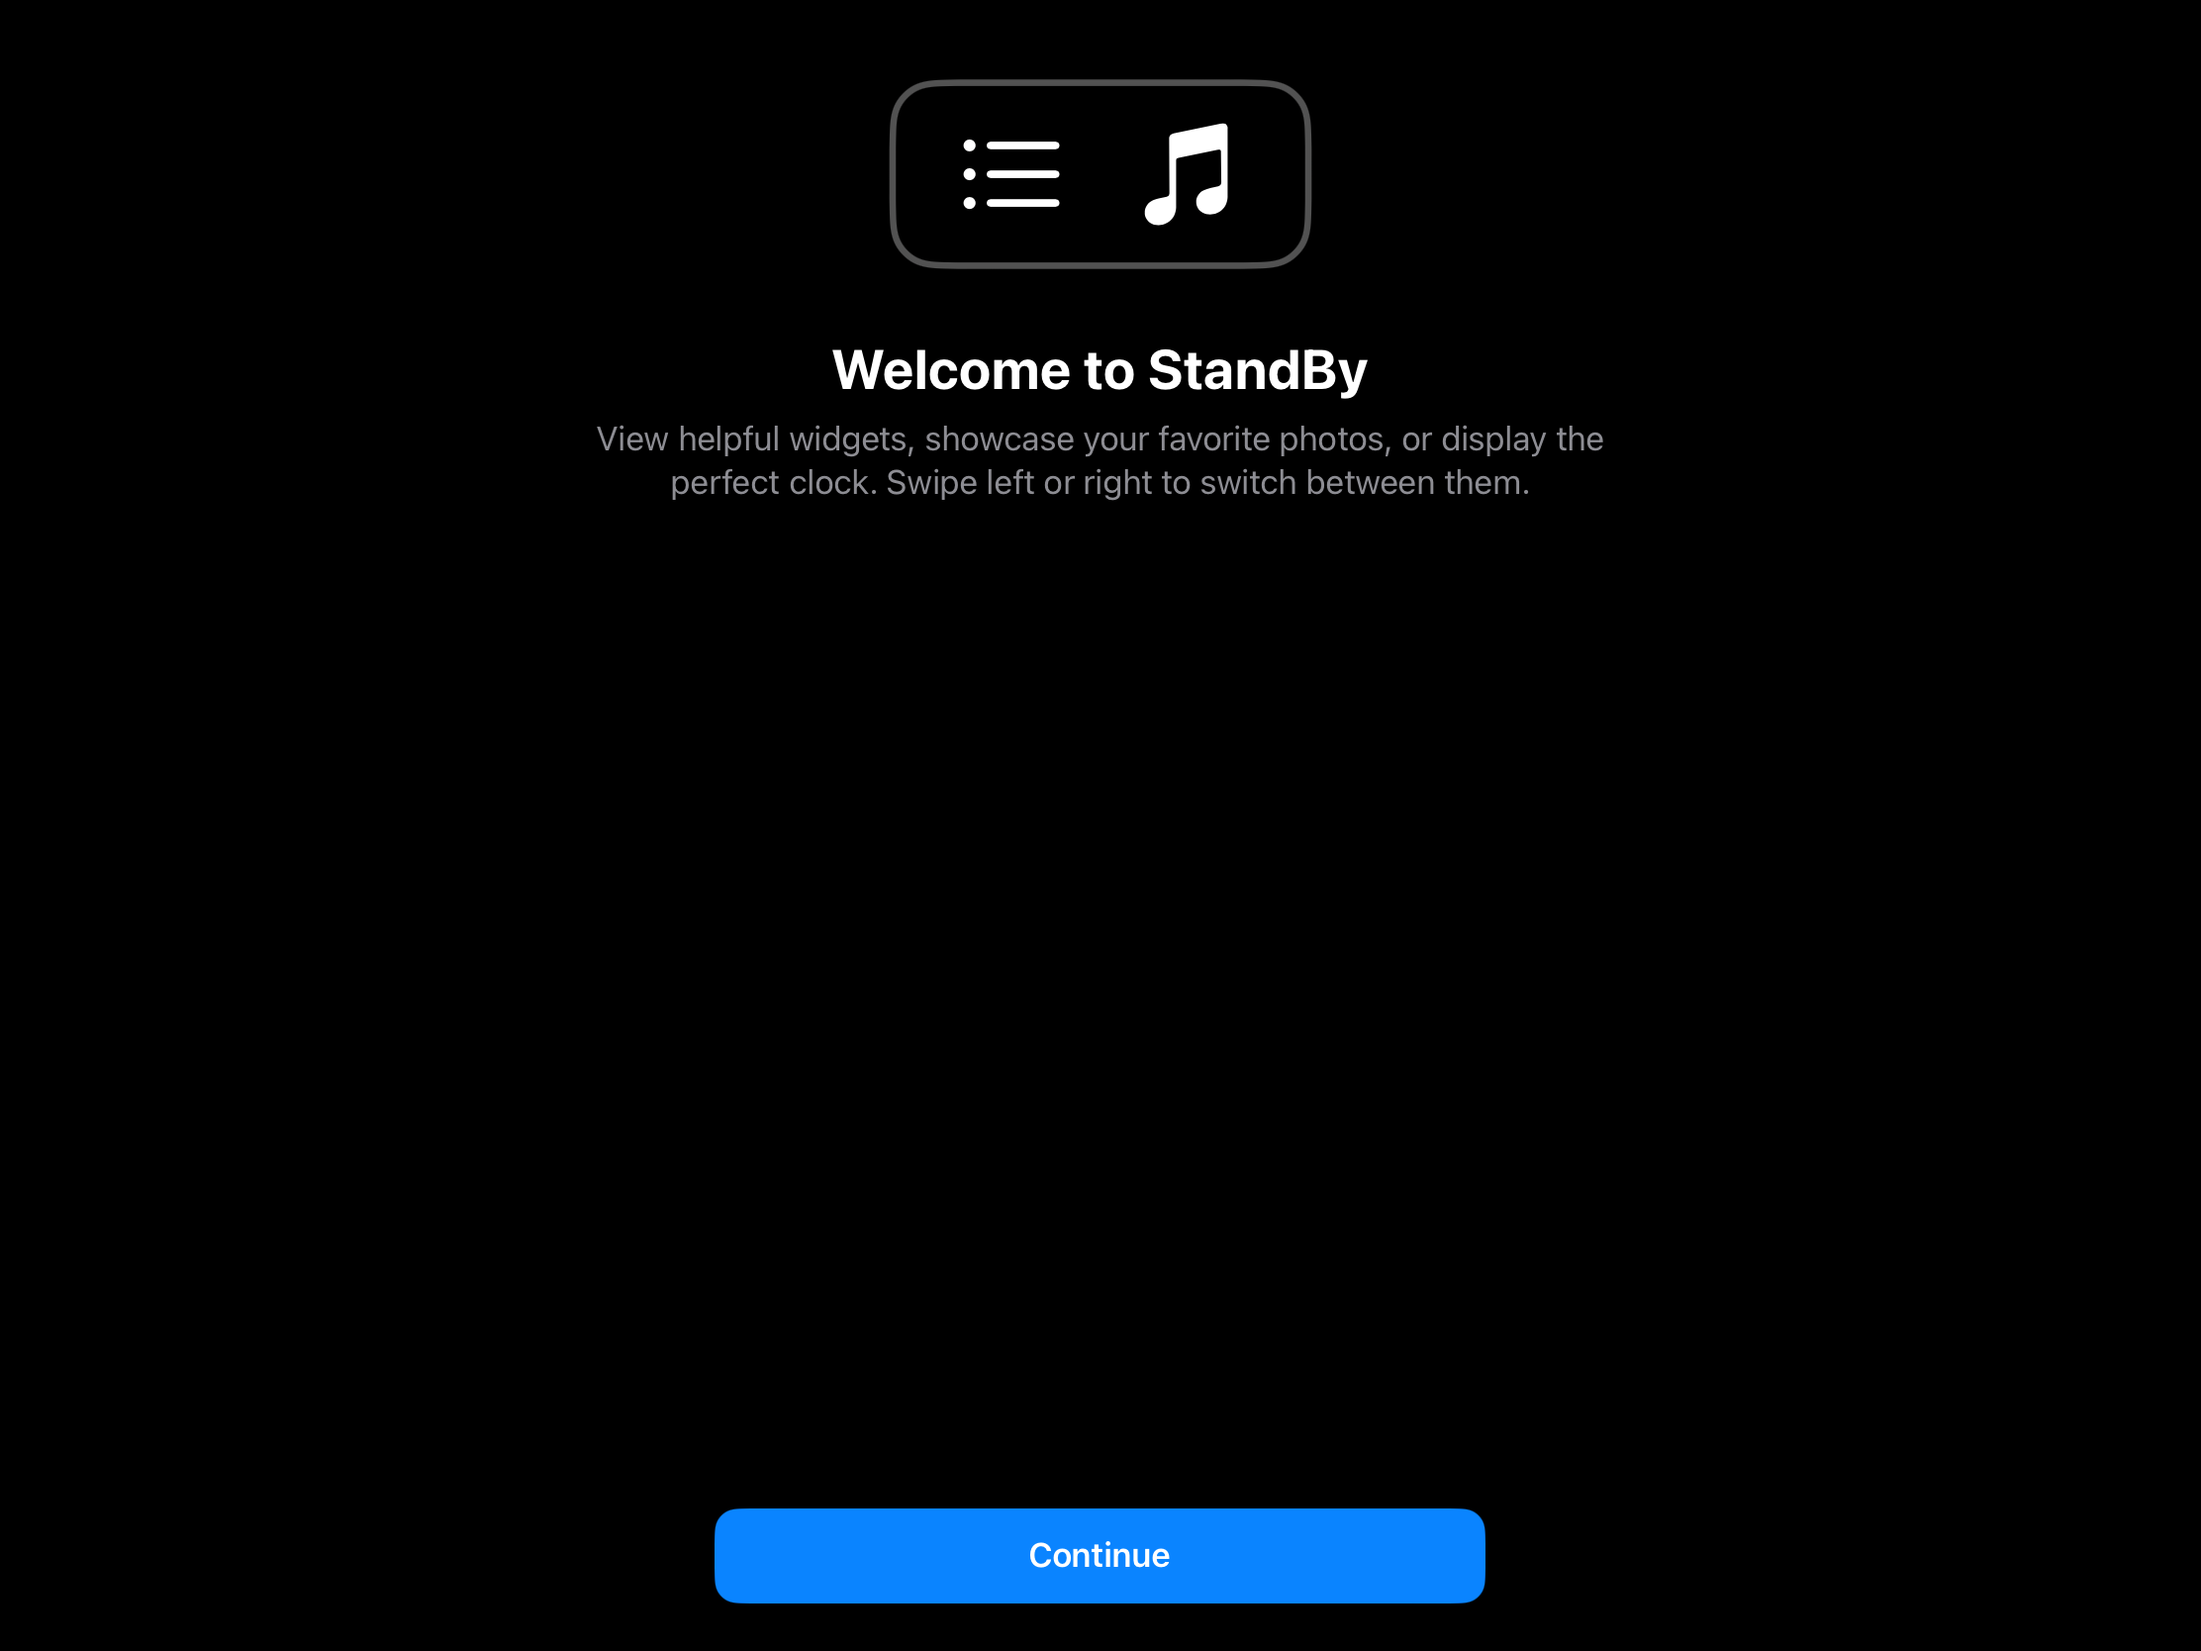
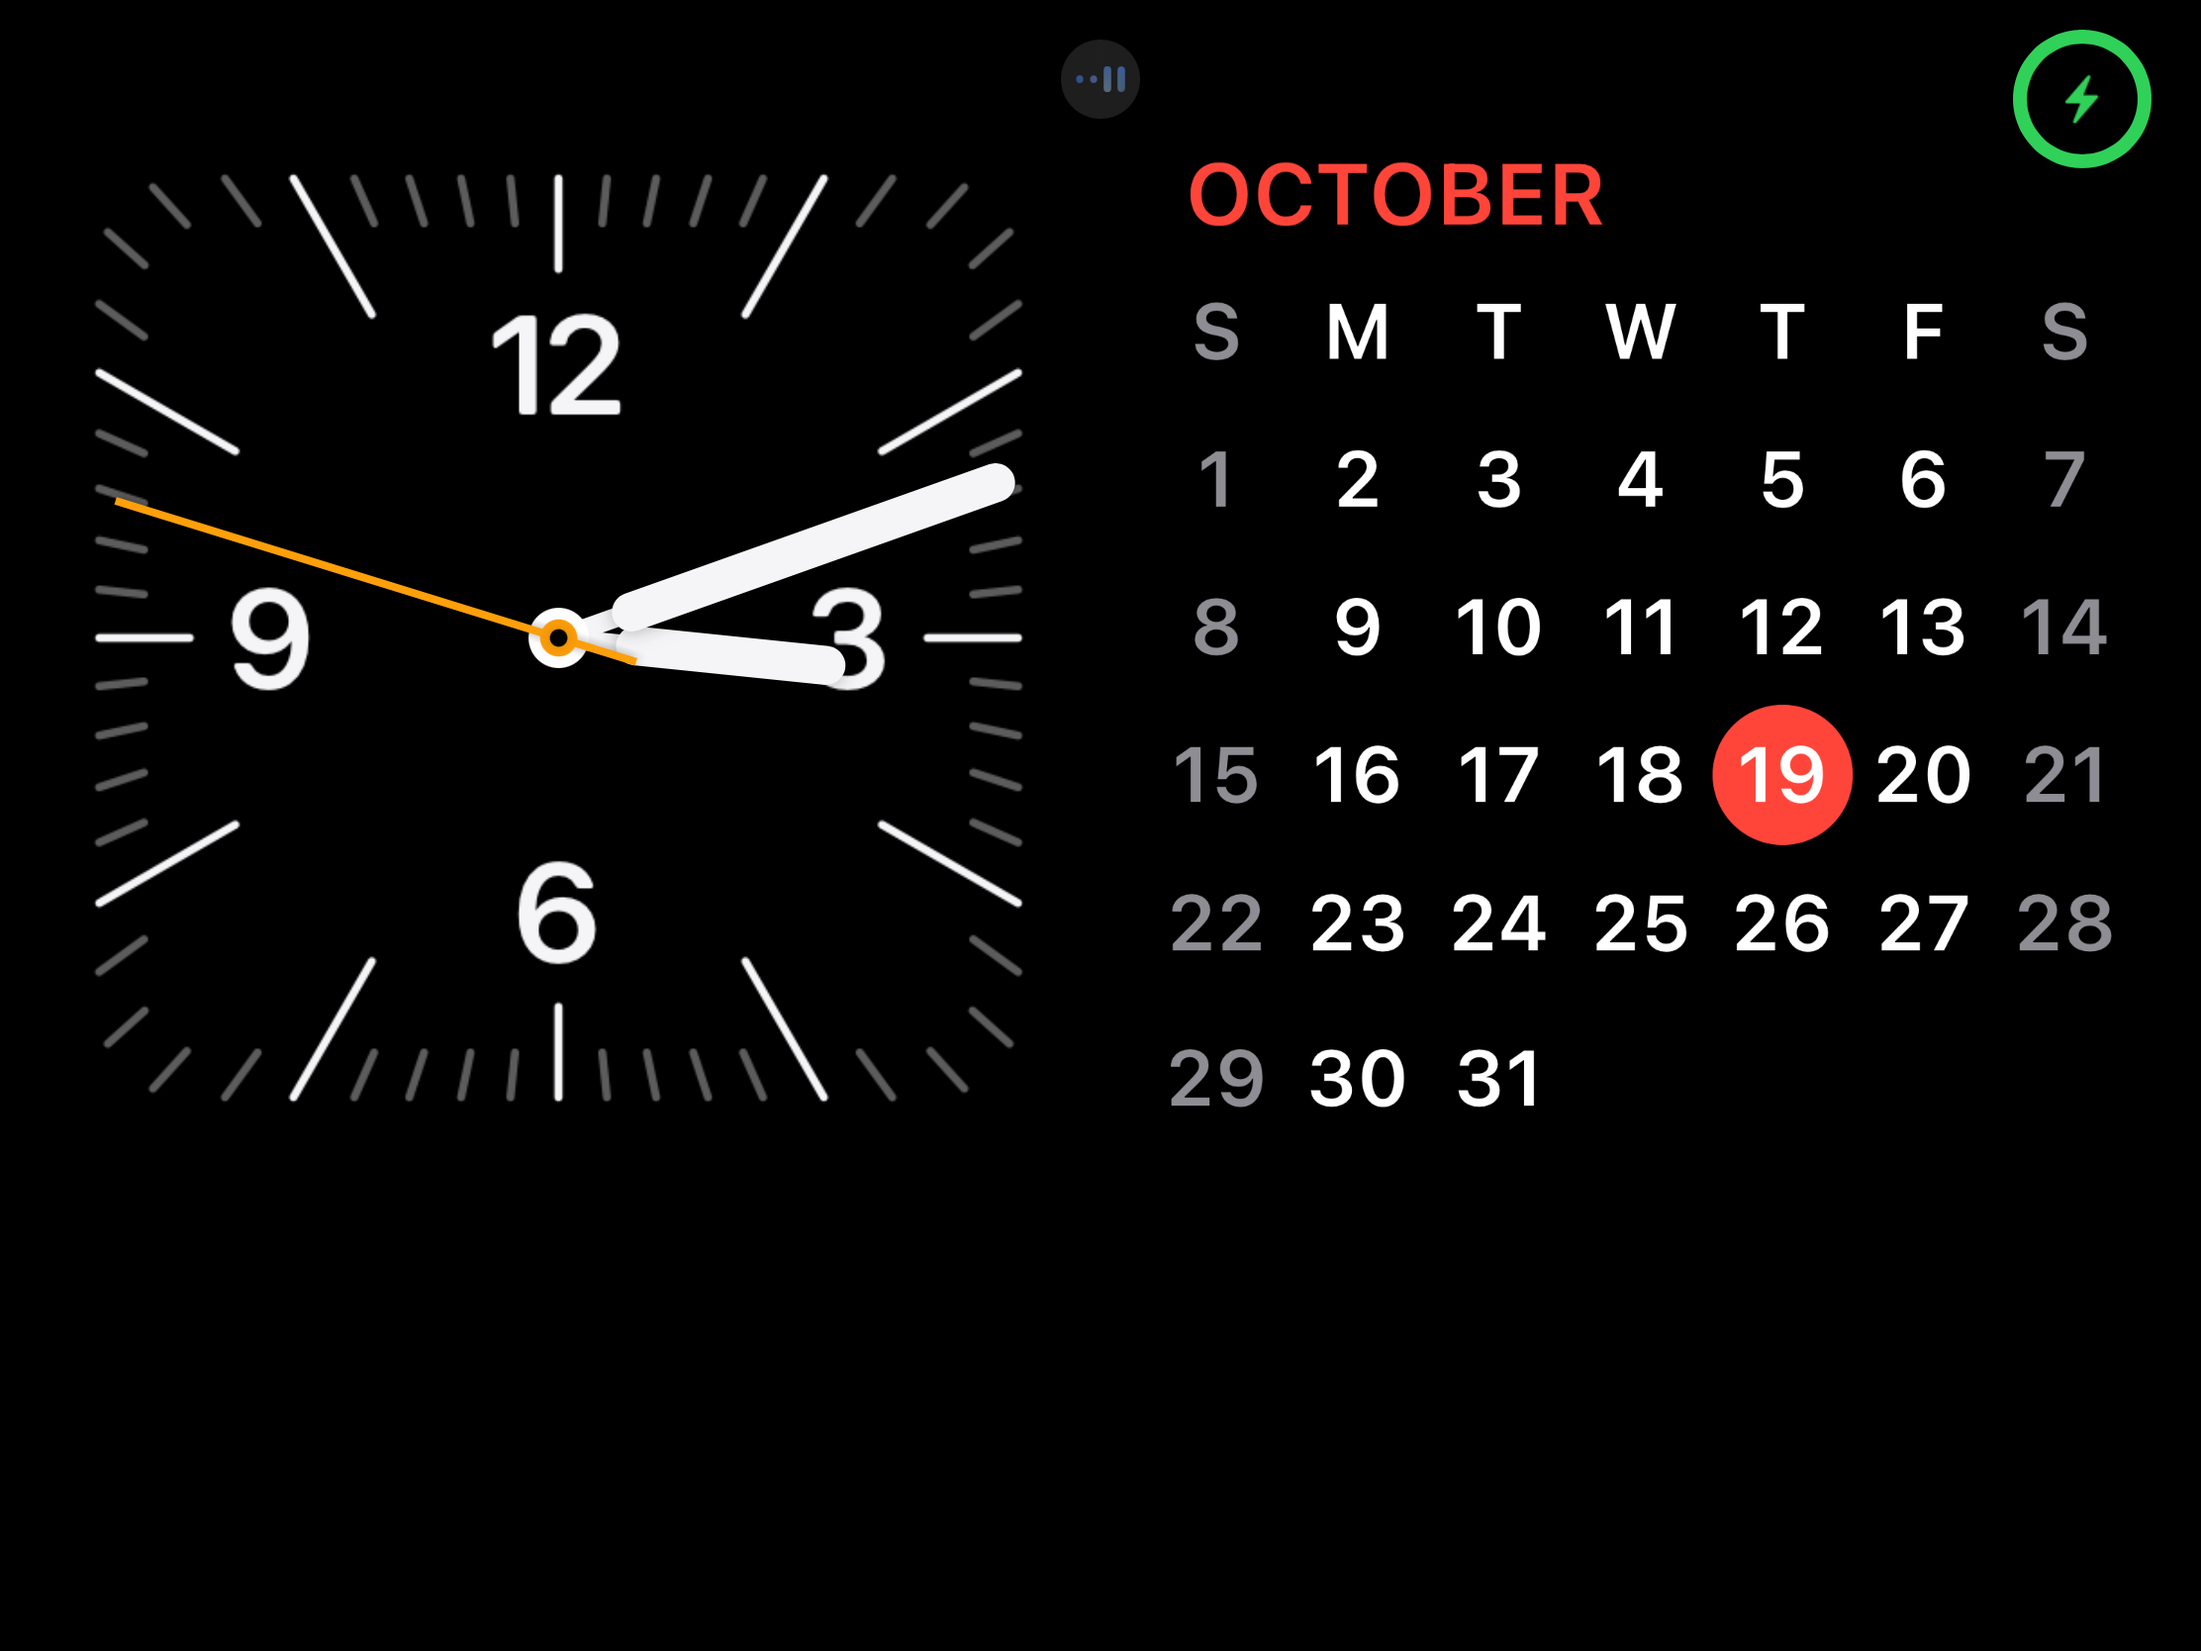
no message

diff --git a/modules/StandPadSpringBoard/init.mm b/modules/StandPadSpringBoard/init.mm
@@ -1,5 +1,6 @@
 #import <UIKit/UIKit.h>
 #import <objc/runtime.h>
+#import <objc/message.h>
 #import <dlfcn.h>
 #import <execinfo.h>
 #import <cstring>
@@ -25,7 +26,9 @@ BOOL isCalledFromMethod(Class cls, SEL name) {
 namespace SP_os_feature_enabled_impl {
     BOOL (*original)(const char *arg0, const char *arg1);
     BOOL custom(const char *arg0, const char *arg1) {
-        if (!std::strcmp(arg0, "SpringBoard") && !std::strcmp(arg1, "Domino")) {
+        if (!std::strcmp(arg0, "SpringBoard") && !std::strcmp(arg1, "SuperDomino")) {
+            return YES;
+        } else if (!std::strcmp(arg0, "SpringBoard") && !std::strcmp(arg1, "Domino")) {
             return YES;
         } else {
             return original(arg0, arg1);
@@ -73,8 +76,35 @@ namespace SP_UIDevice {
             MSHookMessageEx(
                 UIDevice.class,
                 @selector(userInterfaceIdiom),
-                reinterpret_cast<IMP>(&SP_UIDevice::userInterfaceIdiom::custom),
-                reinterpret_cast<IMP *>(&SP_UIDevice::userInterfaceIdiom::original)
+                reinterpret_cast<IMP>(&custom),
+                reinterpret_cast<IMP *>(&original)
+            );
+        }
+    }
+}
+
+namespace SP_SBHomeHardwareButton {
+    namespace doublePressDown {
+        void custom(id self, SEL _cmd, UIPressesEvent *event) {
+            [UIApplication.sharedApplication.connectedScenes enumerateObjectsUsingBlock:^(UIScene * _Nonnull obj, BOOL * _Nonnull stop) {
+                if ([obj isKindOfClass:NSClassFromString(@"SBWindowScene")]) {
+                    auto windowScene = reinterpret_cast<__kindof UIWindowScene *>(obj);
+
+                    // SBAmbientPresentationController
+                    id controller = reinterpret_cast<id (*)(id, SEL)>(objc_msgSend)(windowScene, NSSelectorFromString(@"ambientPresentationController"));
+
+                    auto isPresented = reinterpret_cast<BOOL (*)(id, SEL)>(objc_msgSend)(controller, NSSelectorFromString(@"isPresented"));
+                    reinterpret_cast<void (*)(id, SEL, BOOL)>(objc_msgSend)(controller, NSSelectorFromString(@"_setPresented:"), !isPresented);
+                }
+            }];
+        }
+
+        void hook() {
+            MSHookMessageEx(
+                NSClassFromString(@"SBHomeHardwareButton"),
+                NSSelectorFromString(@"doublePressDown:"),
+                reinterpret_cast<IMP>(&custom),
+                nullptr
             );
         }
     }
@@ -86,6 +116,7 @@ __attribute__((constructor)) static void init() {
     SP_os_feature_enabled_impl::hook();
     SP_SBFEffectiveDeviceClass::hook();
     SP_UIDevice::userInterfaceIdiom::hook();
+    SP_SBHomeHardwareButton::doublePressDown::hook();
 
     [pool release];
 }

diff --git a/modules/StandPadPosterBoard/init.mm b/modules/StandPadPosterBoard/init.mm
@@ -1,0 +1,67 @@
+#import <UIKit/UIKit.h>
+#import <dlfcn.h>
+#import <cstring>
+#import <substrate.h>
+
+namespace SP_os_feature_enabled_impl {
+    BOOL (*original)(const char *arg0, const char *arg1);
+    BOOL custom(const char *arg0, const char *arg1) {
+        if (!std::strcmp(arg0, "SpringBoard") && !std::strcmp(arg1, "SuperDomino")) {
+            return YES;
+        } else if (!std::strcmp(arg0, "SpringBoard") && !std::strcmp(arg1, "Domino")) {
+            return YES;
+        } else {
+            return original(arg0, arg1);
+        }
+    }
+
+    void hook() {
+        auto handle = dlopen("/usr/lib/system/libsystem_featureflags.dylib", RTLD_NOW);
+        auto symbol = dlsym(handle, "_os_feature_enabled_impl");
+        MSHookFunction(symbol, reinterpret_cast<void *>(&custom), reinterpret_cast<void **>(&original));
+        dlclose(handle);
+    }
+}
+
+namespace SP_PRPosterAmbientConfiguration {
+    namespace setHidden {
+        void (*original)(id self, SEL _cmd, BOOL arg0);
+        void custom(id self, SEL _cmd, BOOL arg0) {
+            original(self, _cmd, NO);
+        }
+
+        void hook() {
+            MSHookMessageEx(
+                NSClassFromString(@"PRPosterAmbientConfiguration"),
+                NSSelectorFromString(@"setHidden:"),
+                reinterpret_cast<IMP>(&custom),
+                reinterpret_cast<IMP *>(&original)
+            );
+        }
+    }
+
+    namespace hidden {
+        BOOL custom(id self, SEL _cmd) {
+            return NO;
+        }
+
+        void hook() {
+            MSHookMessageEx(
+                NSClassFromString(@"PRPosterAmbientConfiguration"),
+                NSSelectorFromString(@"hidden"),
+                reinterpret_cast<IMP>(&custom),
+                nullptr
+            );
+        }
+    }
+}
+
+__attribute__((constructor)) static void init() {
+    NSAutoreleasePool *pool = [NSAutoreleasePool new];
+
+    SP_os_feature_enabled_impl::hook();
+    SP_PRPosterAmbientConfiguration::setHidden::hook();
+    SP_PRPosterAmbientConfiguration::hidden::hook();
+
+    [pool release];
+}

diff --git a/README.md b/README.md
@@ -4,12 +4,14 @@ Enable StandBy feature on iPadOS.
 
 Only for developers at the moment.
 
-Known Issue : Widgets are not showing.
+Known Issue : Some Widgets are not showing.
 
 ![](0.png)
 
+![](1.png)
+
+![](2.png)
+
 ## How to turn on StandBy
 
-```
-(lldb) po [[[[[UIApplication sharedApplication] connectedScenes] firstObject] ambientPresentationController] _setPresented:0x1]
-```
+Double click your Home Button
